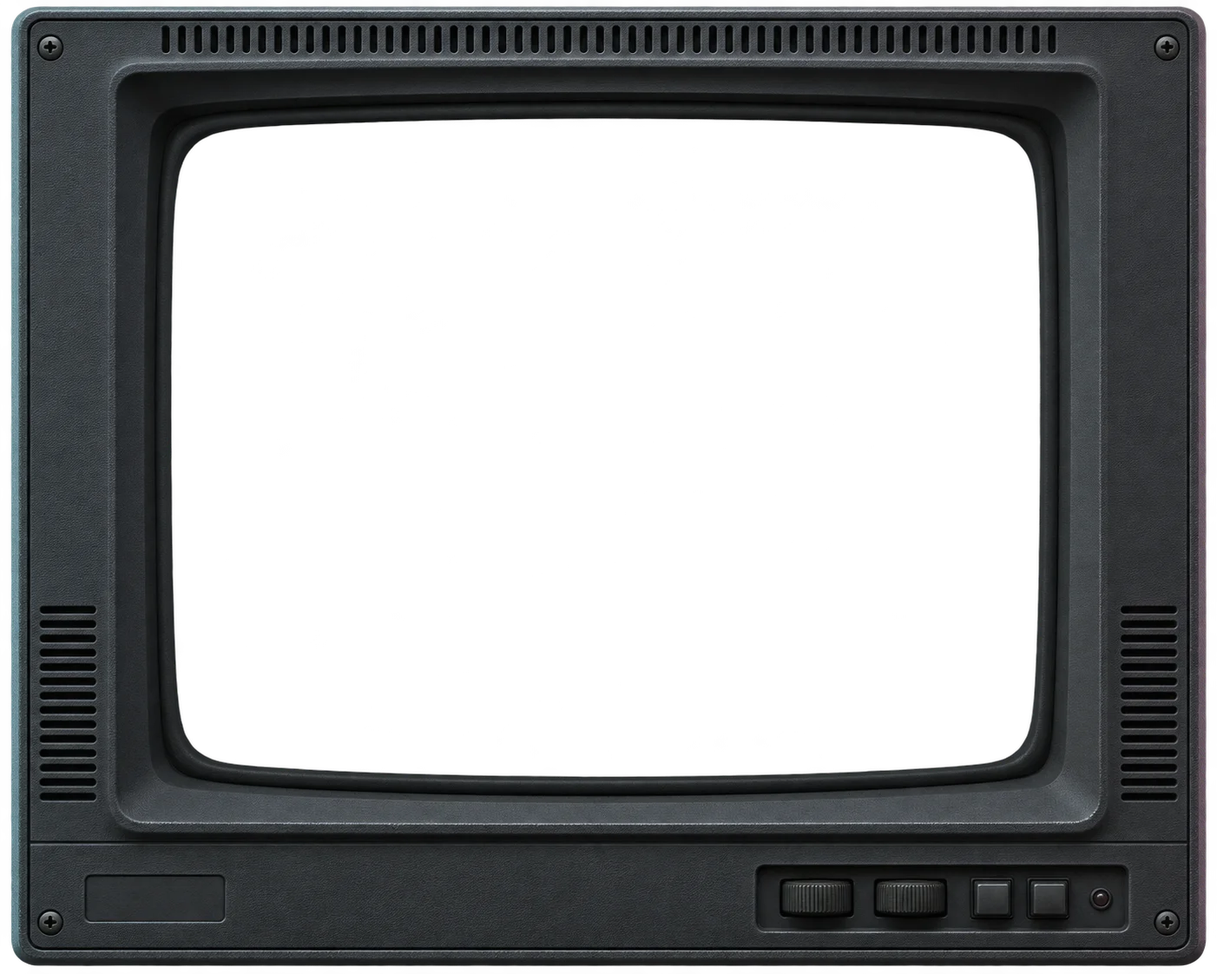
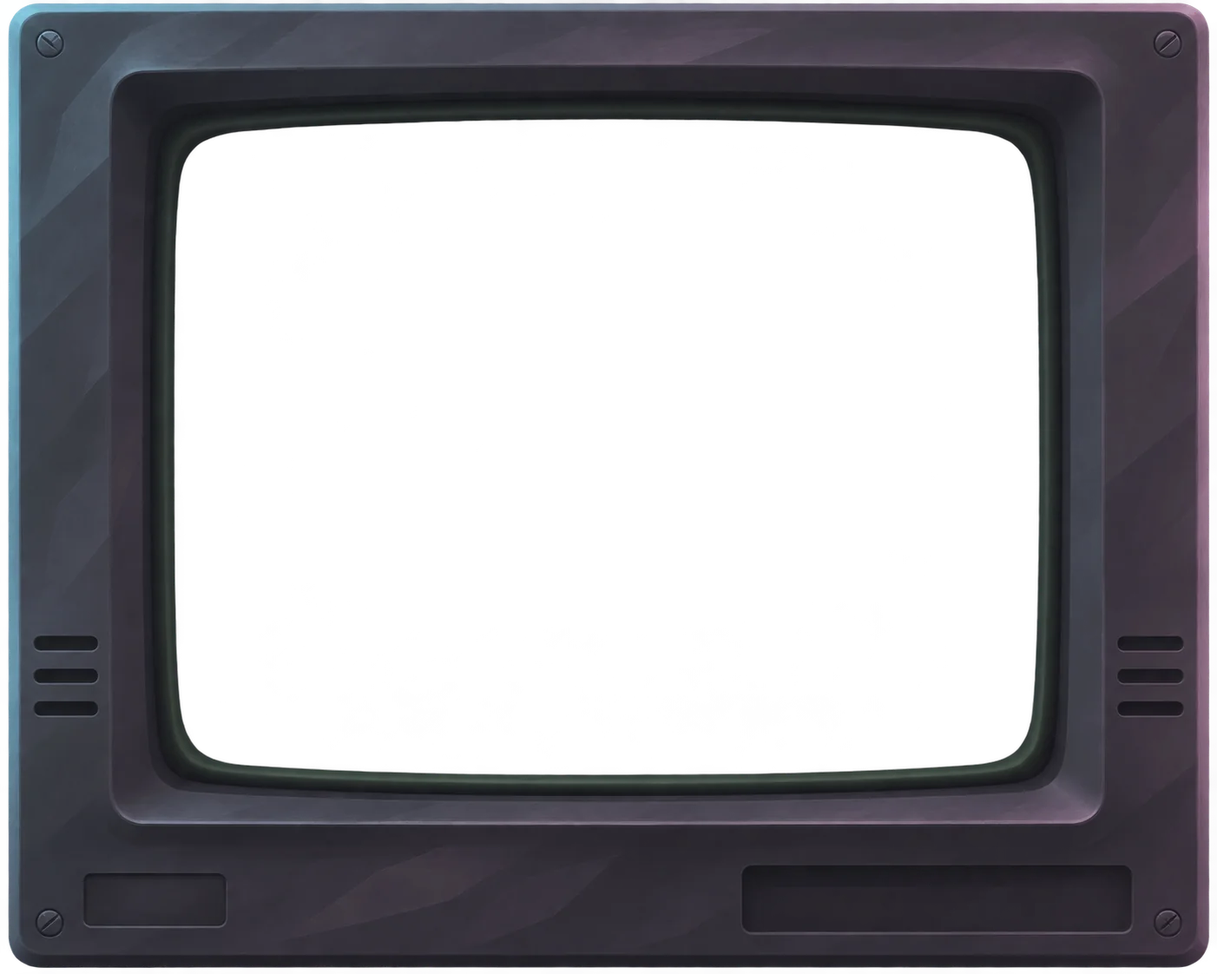
Unify CRT monitor and office with painted game art
Replace photographic room and bezel detail with broad painted forms and shared blue/mauve lighting. Match the stand, controls, and compact shell; preserve monitor geometry and runtime behavior. Update asset provenance and synchronize release keys to 20261108.1.

diff --git a/css/responsive.css b/css/responsive.css
@@ -279,7 +279,7 @@
         --monitor-stand-height: clamp(30px, 4.5vmin, 64px);
         align-items: end;
         padding-bottom: calc(var(--monitor-stand-height) + var(--monitor-gap));
-        background: #101519 url('../img/crt-room.webp?v=20261107.6') no-repeat;
+        background: #101519 url('../img/crt-room.webp?v=20261108.1') no-repeat;
         background-size: 100% 106%;
         background-position: center calc(100% + 4dvh);
     }
@@ -301,8 +301,8 @@
         border-style: solid;
         border-color: transparent;
         border-width: var(--monitor-bezel) var(--monitor-bezel) var(--monitor-chin-height);
-        border-image-source: url('../img/crt-bezel.webp?v=20261107.6');
-        border-image-slice: 137 205 228 199;
+        border-image-source: url('../img/crt-bezel.webp?v=20261108.1');
+        border-image-slice: 139 206 231 202;
         border-image-repeat: stretch;
     }
     #monitor-shell::before,
@@ -319,21 +319,21 @@
         width: 23%;
         height: var(--monitor-stand-height);
         border-radius: 0 0 35% 35%;
-        background: linear-gradient(90deg, #111719, #343c3f 25%, #252d30 65%, #101619);
-        box-shadow: inset 0 13px 12px #0009, inset 1px 0 0 #87969a3b;
+        background: linear-gradient(90deg, #191d28 18%, #33394a 18% 72%, #252938 72%);
+        box-shadow: inset 0 12px 10px #090b1380, inset 1px 0 0 #8195ab40;
     }
     #monitor-shell::after {
         top: calc(100% + var(--monitor-stand-height) - var(--monitor-bezel) * 1.65);
         width: 43%;
         height: calc(var(--monitor-bezel) * 1.65);
-        border: 1px solid #11191b;
+        border: 1px solid #151925;
         border-radius: 50% 50% 24% 24% / 55% 55% 32% 32%;
-        background: linear-gradient(175deg, #465054, #303a3d 35%, #172023 72%, #0b1113 74%);
+        background: linear-gradient(168deg, #4b5061 16%, #353b4b 16% 53%, #252a37 53% 76%, #171b25 76%);
         box-shadow:
-            inset 1px 1px 1px #a8b8be30,
-            0 3px 2px #000c,
-            0 7px 7px #0009,
-            12px 9px 20px 8px #0005;
+            inset 1px 1px 0 #92a1ba40,
+            0 3px 1px #080a12c0,
+            0 7px 7px #07091280,
+            12px 9px 20px 8px #090b1350;
     }
     #monitor-glass {
         width: 100%;
@@ -352,7 +352,7 @@
         top: 58%;
         font-size: clamp(6px, 0.55vmin, 9px);
         letter-spacing: 0.12em;
-        color: #9b9f9e;
+        color: #a2a6b5;
     }
     .monitor-hardware {
         position: absolute;
@@ -365,21 +365,19 @@
         top: 43%;
         height: 37%;
         padding-right: 20px;
-        border: 1px solid #0a0e10;
+        border: 1px solid #171923;
         border-radius: 4px;
-        background: linear-gradient(#14191b, #252b2d);
-        box-shadow: inset 0 2px 3px #000b, 0 1px 1px #8f999b40;
+        background: linear-gradient(#20212c, #30303c);
+        box-shadow: inset 0 2px 2px #0d101980, 0 1px 0 #8b819e40;
     }
     .monitor-dial {
         position: relative;
         width: clamp(9px, 1.2vmin, 17px);
         aspect-ratio: 1;
-        border: 1px solid #0a0e10;
+        border: 1px solid #151923;
         border-radius: 50%;
-        background:
-            radial-gradient(circle, #3e4648 0 40%, transparent 48%),
-            repeating-conic-gradient(#535b5e 0 8deg, #1a2022 8deg 16deg);
-        box-shadow: 0 1px 2px #000c;
+        background: linear-gradient(135deg, #667084 35%, #43495b 35% 65%, #2b3040 65%);
+        box-shadow: inset 0 1px 0 #929bb140, 0 1px 1px #0b0e18b0;
     }
     .monitor-dial::after {
         content: '';
@@ -388,15 +386,15 @@
         top: 2px;
         width: 1px;
         height: 3px;
-        background: #a6afad;
+        background: #b1b6c4;
     }
     .monitor-rocker {
         width: clamp(14px, 1.7vmin, 24px);
         height: clamp(8px, 0.9vmin, 13px);
-        border: 1px solid #090d0e;
+        border: 1px solid #151923;
         border-radius: 2px;
-        background: linear-gradient(#505759, #272d2f);
-        box-shadow: inset 0 1px 0 #7f888a50, 0 1px 2px #000b;
+        background: linear-gradient(#62677a 45%, #3a3d50 45%);
+        box-shadow: inset 0 1px 0 #9ba1b650, 0 1px 1px #0b0e18b0;
     }
     .power-led {
         position: absolute;

diff --git a/index.html b/index.html
@@ -5,13 +5,13 @@
         <meta name="viewport" content="width=device-width, initial-scale=1.0" />
         <title>Jujin Kim - Software Engineer</title>
         <meta name="description" content="Personal portfolio of Jujin Kim, Software Engineer" />
-        <link rel="icon" type="image/svg+xml" href="favicon.svg?v=20261107.6" />
-        <link rel="alternate icon" href="favicon.ico?v=20261107.6" />
-        <link rel="stylesheet" href="css/reset.css?v=20261107.6" />
-        <link rel="stylesheet" href="css/site.css?v=20261107.6" />
-        <link rel="stylesheet" href="css/animations.css?v=20261107.6" />
-        <link rel="stylesheet" href="css/modal.css?v=20261107.6" />
-        <link rel="stylesheet" href="css/responsive.css?v=20261107.6" />
+        <link rel="icon" type="image/svg+xml" href="favicon.svg?v=20261108.1" />
+        <link rel="alternate icon" href="favicon.ico?v=20261108.1" />
+        <link rel="stylesheet" href="css/reset.css?v=20261108.1" />
+        <link rel="stylesheet" href="css/site.css?v=20261108.1" />
+        <link rel="stylesheet" href="css/animations.css?v=20261108.1" />
+        <link rel="stylesheet" href="css/modal.css?v=20261108.1" />
+        <link rel="stylesheet" href="css/responsive.css?v=20261108.1" />
     </head>
     <body class="crt-effects-enabled">
         <div id="monitor-shell">
@@ -179,6 +179,6 @@
                 <span class="power-led"></span>
             </div>
         </div>
-        <script type="module" src="js/main.js?v=20261107.6"></script>
+        <script type="module" src="js/main.js?v=20261108.1"></script>
     </body>
 </html>

diff --git a/css/site.css b/css/site.css
@@ -45,7 +45,7 @@ html {
 
 @font-face {
     font-family: 'JetBrains Mono Local';
-    src: url('../fonts/JetBrainsMono-Regular.woff2?v=20261107.6') format('woff2');
+    src: url('../fonts/JetBrainsMono-Regular.woff2?v=20261108.1') format('woff2');
     font-weight: 400;
     font-style: normal;
     font-display: swap;
@@ -798,19 +798,14 @@ body {
     width: calc(100% - 12px);
     height: calc(100dvh - 12px);
     padding: 9px 9px 0;
-    background:
-        linear-gradient(110deg, #535a5de0, #30383bed 24%, #1f272af2 82%),
-        url('../img/crt-noise.png'),
-        linear-gradient(145deg, #45494b, #303537 24%, #25292b 60%, #161a1c);
-    background-blend-mode: normal, soft-light, normal;
-    border: 1px solid #111719;
+    background: linear-gradient(135deg, #485061, #363b4a 24%, #292b36 70%, #3e3444);
+    border: 1px solid #171a23;
     border-radius: 20px;
     box-shadow:
-        inset 2px 2px 2px #9aa5a54d,
-        inset 7px 7px 12px #86939826,
-        inset -4px -5px 7px #05090bcc,
-        2px 4px 0 #111719,
-        10px 18px 28px #0007;
+        inset 1px 1px 0 #8294a34d,
+        inset -3px -4px 0 #15151fb3,
+        2px 4px 0 #12151d,
+        12px 18px 26px #05070b80;
     display: flex;
     flex-direction: column;
 }
@@ -823,8 +818,8 @@ body {
     background: var(--terminal-bg);
     box-shadow:
         0 0 0 3px #070c0d,
-        0 -3px 0 5px #111719,
-        0 3px 1px 5px #66747740;
+        0 -3px 0 5px #1b202a,
+        0 3px 1px 5px #68667940;
     container: monitor / inline-size;
 }
 .monitor-face {

diff --git a/js/main.js b/js/main.js
@@ -1,11 +1,11 @@
-import { initASCIITitle } from './modules/ascii-art.js?v=20261107.6';
-import { initNavigation } from './modules/navigation.js?v=20261107.6';
-import { initAnimations } from './modules/animations.js?v=20261107.6';
-import { initTheme, setTheme } from './modules/theme.js?v=20261107.6';
-import { initContent } from './modules/content.js?v=20261107.6';
-import { initProfilePicture } from './modules/profile-ascii.js?v=20261107.6';
-import { initTerminalInput } from './modules/terminal-input.js?v=20261107.6';
-import { initCRTEffects } from './modules/crt-effects.js?v=20261107.6';
+import { initASCIITitle } from './modules/ascii-art.js?v=20261108.1';
+import { initNavigation } from './modules/navigation.js?v=20261108.1';
+import { initAnimations } from './modules/animations.js?v=20261108.1';
+import { initTheme, setTheme } from './modules/theme.js?v=20261108.1';
+import { initContent } from './modules/content.js?v=20261108.1';
+import { initProfilePicture } from './modules/profile-ascii.js?v=20261108.1';
+import { initTerminalInput } from './modules/terminal-input.js?v=20261108.1';
+import { initCRTEffects } from './modules/crt-effects.js?v=20261108.1';
 
 // Make functions globally available
 window.setTheme = setTheme;

diff --git a/js/modules/crt-effects.js b/js/modules/crt-effects.js
@@ -1,6 +1,6 @@
-import { createCurvature } from './screen-curvature.js?v=20261107.6';
-import { monitorPerformance } from './display-performance.js?v=20261107.6';
-import { cleanup as stopAnimations, setAnimationResolution } from './animations.js?v=20261107.6';
+import { createCurvature } from './screen-curvature.js?v=20261108.1';
+import { monitorPerformance } from './display-performance.js?v=20261108.1';
+import { cleanup as stopAnimations, setAnimationResolution } from './animations.js?v=20261108.1';
 
 const VISIT_MODE = 'crt-display-mode';
 const POWER_SEEN = 'crt-power-seen';

diff --git a/js/modules/terminal-input.js b/js/modules/terminal-input.js
@@ -1,5 +1,5 @@
-import { CONTACT_EMAIL } from '../constants.js?v=20261107.6';
-import { toggleMatrixRain } from './animations.js?v=20261107.6';
+import { CONTACT_EMAIL } from '../constants.js?v=20261108.1';
+import { toggleMatrixRain } from './animations.js?v=20261108.1';
 
 let currentInput = '';
 let commandHistory = [];

diff --git a/js/modules/content.js b/js/modules/content.js
@@ -1,4 +1,4 @@
-import { CONTACT_EMAIL } from '../constants.js?v=20261107.6';
+import { CONTACT_EMAIL } from '../constants.js?v=20261108.1';
 
 function calculateAge() {
     const birthDate = new Date(1992, 9, 20); // October 20, 1992 (month is 0-indexed)

diff --git a/js/modules/theme-export.js b/js/modules/theme-export.js
@@ -1,4 +1,4 @@
 // Export theme functions for global use
-import { setTheme as setThemeInternal } from './theme.js?v=20261107.6';
+import { setTheme as setThemeInternal } from './theme.js?v=20261108.1';
 
 window.setTheme = setThemeInternal;

diff --git a/js/modules/profile-ascii.js b/js/modules/profile-ascii.js
@@ -1,4 +1,4 @@
-import { PROFILE_IMAGE_URL } from '../constants.js?v=20261107.6';
+import { PROFILE_IMAGE_URL } from '../constants.js?v=20261108.1';
 
 // Profile picture loader (photo only)
 export function initProfilePicture() {

diff --git a/docs/crt-painted-room.md b/docs/crt-painted-room.md
@@ -1,0 +1,58 @@
+# Painted room and monitor — 2026-11-08
+
+Branch: `feat/crt-monitor-shell`. Release key: `20261108.1`.
+
+## Result
+
+The office and monitor now share a painted, semi-realistic adventure-game style. Broad charcoal/slate planes, selective brush texture, and muted blue/mauve edge lighting replace photographic wood grain, plastic grain, dense vents, and tiny material details. The office layout, heavy curtains, neon emblem, window/desk reflections, and empty desk foreground remain. Soft painted background edges retain the earlier gentle depth treatment without a live blur.
+
+The frame keeps its deep glass recess, substantial bevels, simplified corner fasteners, and fewer vents. CSS supplies the matching faceted stand, proportional controls, green LED, and compact/image-failure shell. The source alpha geometry uses nine-slice values of 139px top, 206px right, 231px bottom, and 202px left. No center fill is used, so the border image never paints over the content opening.
+
+Monitor dimensions, 4:3 desktop geometry, menu alignment, content, animation behavior, and input logic are unchanged. HTML and JavaScript match the preceding commit after normalizing the release key.
+
+## Assets
+
+Built-in **imagegen** edited both existing assets. The new room was then used as a style/lighting reference for the bezel. FFmpeg/libwebp encodes the selected outputs into the workspace.
+
+| Saved asset | Dimensions | Bytes | WebP quality |
+| --- | --- | ---: | ---: |
+| `img/crt-room.webp` | 1672x941 | 40,708 | 82 |
+| `img/crt-bezel.webp` | 1402x1122 | 94,420 | 85 |
+
+Source directory: `/home/jujin/.codex/generated_images/01a1b46a-a4ef-72e0-a2c4-bea7c5e08e46/`.
+
+- Room: `exec-f11e41d0-a158-4bfa-8e64-32cedf8cc0a7.png`.
+- Bezel: `exec-5e3f7f2f-b5ac-462c-bd99-393e601ea25d.png`.
+
+The bezel retains alpha: its center pixel is zero, and the sampled central opening ranges from 0 to 2/255 due to negligible edge noise. CSS omits the nine-slice center entirely. Both assets remain desktop CRT decorations; compact layouts do not load them, and Web 1.0 hides them.
+
+### Room edit prompt
+
+```text
+Use case: style-transfer.
+Edit target: the supplied dark office background. Restyle it into a HAND-PAINTED, SEMI-REALISTIC 2.5D ADVENTURE GAME ENVIRONMENT, a quiet cyberpunk hacker's workspace. The main change must be clearly visible: replace photographic surfaces with designed shapes, broad painterly light/shadow planes, softly faceted furniture, and restrained drawn edge accents. Keep believable room depth and weight. Think carefully art-directed game background illustration, neither a photograph nor a plastic toy render, neither pixel art nor flat icons.
+Preserve the exact camera, framing and object positions: heavy dark curtains and city window on the left, side shelving with books and document binders, modest office desk/chair and filing unit at the rear, doorway on the right, layered bent-tube neon emblem at the far right. Keep the entire large foreground desk EMPTY, its straight rear edge at the same height. Do not add a monitor, bezel, stand or computer anywhere; a real interactive HTML monitor will be placed on this desk.
+Use a tightly controlled low-saturation palette: charcoal/slate room, dark grey wood with a few broad brush marks rather than fine wood grain, muted blue-grey edge light from the window, soft dusty violet/cyan neon light from the right. Preserve the neon design and its reflection in the window and foreground desktop, interpreted as deliberate painted luminous shapes with soft bloom. Keep the room dim but readable, no bright warm cozy light. Reduce furniture microdetail, leaf detail, textile weave, clutter, glossy reflections and photographic noise. The silhouette, shading and edge treatment should unite everything.
+Retain gentle depth softness in the BACKGROUND as painted soft edges, while avoiding smeared heavy blur. This is a matte painted game scene with clear large forms and subtle material texture. Foreground desktop should have simplified horizontal painted reflections and enough solid form to support a separately rendered monitor. No people, text, logos, additional objects, fantasy machinery or basement pipes. Output the room alone with the original landscape composition.
+```
+
+### Bezel edit prompt
+
+```text
+Use case: style-transfer.
+Image 1 is the EDIT TARGET: transparent front-face CRT bezel. Image 2 is ONLY the STYLE AND LIGHTING REFERENCE: painted cyberpunk office. Output ONLY the edited transparent bezel, not a room or a composite.
+Restyle the CRT frame to belong to the same hand-painted semi-realistic 2.5D adventure game as image 2. Strong visible shift away from photographic plastic: broad designed charcoal/slate planes, softened faceted bevels, restrained painterly shading, selective thin edge accents, a few large clean vent slits, small simplified corner fasteners. Remove dense pebbled grain, hundreds of tiny ridges, scratches, pores and busy industrial detail. Keep substantial old CRT mass, deep dark inset gasket, and a clearly modeled thick front frame, not a flat UI rectangle and not a modern thin LCD.
+Lighting must match image 2: muted blue-grey/cyan edge highlight at left/top-left, soft dusty mauve edge reflection at right, darker underside, limited muted charcoal palette. Use two or three broad shadow values plus gentle painted transitions, not glossy studio reflections. A faint touch of muted green screen bounce at the INNER rim only. Clean large shapes; no cartoon outlines, no pixel art, no extra futuristic hardware.
+Preserve image 1's exact straight-on camera, outer silhouette, frame proportions and screen-hole placement. Keep the original canvas bounds and approximately 1402 by 1122 landscape dimensions. Preserve the wide rounded rectangular transparent screen opening, top/side band widths and taller bottom chin. Intended for nine-slice CSS: around 137px top, 205px right, 228px bottom, 199px left in a 1402x1122 image. The horizontal central stretches of each band should be visually quiet. Keep the original small blank maker plate lower left, simplify the lower-right control recess into a quiet dark recessed panel with NO drawn knobs or text; proportional controls and a green LED are rendered separately in CSS. Do not draw a stand, desk, room, screen content or glass.
+CRITICAL: retain genuine alpha transparency throughout the ENTIRE central opening and outside the silhouette. No black fill, no colored fill, no checkerboard or background painted into either transparent region. Opaque pixels only on the physical bezel. Output this single isolated asset matching the game-background style.
+```
+
+## Verification
+
+- Ten focused Chrome 157 / WebKit 27.2 cases passed: desktop Light/Dark, 1440px curved mode, portrait, 360/390/768px compact layouts, and Web 1.0. Assets return HTTP 200 under the current release key; frame ignores pointer events; compact layouts request neither decorative asset. No page exceptions or horizontal page overflow.
+- Existing `tests/crt-feedback.cjs`: 22 cases passed, covering 360px through 4K, portrait, monitor fit/4:3/stand placement, menu alignment, and continuous animation during scrolling in curved and flat modes.
+- Blocking both room and bezel images leaves readable content and a working About menu.
+- Dark/Light desktop compositions were visually reviewed. Native curved text clipping recorded in [the earlier office verification](crt-office-background.md) is outside this asset/style update and remains unresolved; these checks do not establish full curved-renderer visual correctness.
+- Runtime key consistency, JavaScript syntax, normalized HTML/JS equality, asset-size/alpha checks, and `git diff --check` passed. LAN-served HTML, both stylesheets, and both WebP files match workspace bytes.
+
+Artifacts: `/tmp/jujin-crt-results/painted-*.png`, `painted.json`, `painted-feedback.log`; focused script: `/tmp/jujin-crt-painted-check.cjs`. Tests used local Linux automation and emulated viewport sizes. No fresh FPS benchmark or physical-device test. These results describe local LAN verification; remote Git and deployment status are reported separately.

diff --git a/README.md b/README.md
@@ -10,7 +10,7 @@ Personal portfolio at [jujin.kim](https://jujin.kim), built with HTML, CSS, and 
 | API unavailable, rendering/interaction error, or context loss | Flat CRT content; monitor and effects retained |
 | Two consecutive slow interaction windows at the lowest resolution, or in flat CRT | Web 1.0 |
 
-The same DOM supplies all three modes: Home, About & Career, Projects & Skills, and Tech & Experiences. Theme choices remain Light, Dark, and System. The charcoal monitor has a detailed plastic bezel, deep glass recess, casing seams, screws, vents, adjustment dials, and a green power LED. At viewport sizes of at least 1000 x 600, its 4:3 screen fills the available space without a fixed width cap, reserving room for a low stand on the desk. Outer clearance on the limiting axis equals the bezel thickness (24–56px). The stand stays near the bottom desk surface, including tall viewports; wider or taller viewports retain the extra space required by 4:3. Smaller viewports use thin bezels and available height. Layout breakpoints use the monitor's internal width. Home stays left; the other three menu links stay grouped on the right.
+The same DOM supplies all three modes: Home, About & Career, Projects & Skills, and Tech & Experiences. Theme choices remain Light, Dark, and System. The charcoal monitor and room share a painted, semi-realistic game-art style: broad shaded bevels, a deep glass recess, simplified vents and controls, and a green power LED. At viewport sizes of at least 1000 x 600, its 4:3 screen fills the available space without a fixed width cap, reserving room for a low stand on the desk. Outer clearance on the limiting axis equals the bezel thickness (24–56px). The stand stays near the bottom desk surface, including tall viewports; wider or taller viewports retain the extra space required by 4:3. Smaller viewports use thin bezels and available height. Layout breakpoints use the monitor's internal width. Home stays left; the other three menu links stay grouped on the right.
 
 The first visit in each tab plays a silent 1000ms power sequence. Reload and navigation do not repeat it. Reduced motion or inaccessible session storage skips it. CSS finishes the reveal without depending on a cleanup callback. JavaScript or module-network failure leaves static introductory content, contact links, and four section anchors visible.
 
@@ -56,7 +56,7 @@ Open `http://127.0.0.1:8000/`. Diagnostic routes:
 
 `window.crtDiagnostics` exposes mode, reason, recent frame windows, texture counters, and resolution. Only preview URLs expose `forceFlat()`, `forceWeb1()`, `submitSample()`, and `toScreen()` for verification. Forced preview modes override the saved visit choice; a normal visit respects it.
 
-Browser verification scripts in `tests/` use an external Playwright installation; they do not add a build pipeline or runtime package. See [initial implementation verification](docs/crt-verification.md), [layout/motion follow-up](docs/crt-feedback-verification.md), [room/monitor refinement](docs/crt-room-refinement.md), [room depth/neon update](docs/crt-room-depth.md), [material/color refinement](docs/crt-material-refinement.md), and [current office background](docs/crt-office-background.md) for commands, measured results, and limits.
+Browser verification scripts in `tests/` use an external Playwright installation; they do not add a build pipeline or runtime package. See [initial implementation verification](docs/crt-verification.md), [layout/motion follow-up](docs/crt-feedback-verification.md), [room/monitor refinement](docs/crt-room-refinement.md), [room depth/neon update](docs/crt-room-depth.md), [material/color refinement](docs/crt-material-refinement.md), [office background](docs/crt-office-background.md), and [current painted room/monitor](docs/crt-painted-room.md) for commands, measured results, and limits.
 
 ```sh
 for file in js/main.js js/modules/*.js; do node --check "$file" || exit; done
@@ -65,11 +65,11 @@ git diff --check
 
 ## Assets and release cache
 
-`img/crt-room.webp` is a generated semi-realistic night office with a rear worktable, office chair, and document storage, graded toward lower saturation and neutral wood/charcoal tones. Layered cyan/violet neon tubes, local bloom, and window/desk reflections provide selective color. Gentle defocus is baked into the background; the foreground monitor and content remain sharp without a live blur filter. The room image is 37,140 bytes. Landscape framing keeps both side bands visible; tall viewports focus on the doorway and neon side. The current prompt and provenance are in [office background notes](docs/crt-office-background.md).
+`img/crt-room.webp` is a generated painted night office with a rear worktable, office chair, document storage, and heavy window curtains. Simplified charcoal/slate forms and soft edges replace photographic surface detail; cyan/violet neon, window light, and painted desk reflections provide selective color. The room image is 40,708 bytes. Landscape framing keeps both side bands visible; tall viewports focus on the doorway and neon side. No live blur filter is used.
 
-`img/crt-bezel.webp` is a 181,560-byte generated transparent frame used as a CSS nine-slice border. Its screen opening and outside are transparent; it never replaces the content DOM. Separate decorative dials retain their proportions as the frame grows. Both assets are desktop CRT decorations, hidden in compact layouts and Web 1.0. CSS provides the shell if the frame image fails. The frame prompt and provenance are in [material refinement notes](docs/crt-material-refinement.md#asset-provenance).
+`img/crt-bezel.webp` is a 94,420-byte generated transparent frame used as a CSS nine-slice border. Broad painted bevels, fewer vents, and muted blue/mauve edge lighting match the room. Its screen opening and outside are transparent; it never replaces the content DOM. Separate decorative dials retain their proportions as the frame grows; the CSS stand and controls use the same restrained shading. Both assets are desktop CRT decorations, hidden in compact layouts and Web 1.0. CSS provides a matching shell if the frame image fails. Prompts and provenance are in [painted room/monitor notes](docs/crt-painted-room.md).
 
-Local entrypoints, module imports, fonts, favicons, and generated assets use `v=20261107.6`. Bump the release key together for runtime releases.
+Local entrypoints, module imports, fonts, favicons, and generated assets use `v=20261108.1`. Bump the release key together for runtime releases.
 
 ## Author
 

diff --git a/AGENTS.md b/AGENTS.md
@@ -83,7 +83,7 @@ jujin_kim_web/
 
 - **Visual scope**: Preserve the terminal layout, ASCII title, green palette, four tabs, and monitor frame. Refine requested effects inside this shell unless the user explicitly requests a structural redesign.
 
-- **Release caching**: Keep local entrypoints, module imports (including dynamic imports), font URLs, and favicon links on the same `v=20261107.6` release key. Bump the key together for runtime releases.
+- **Release caching**: Keep local entrypoints, module imports (including dynamic imports), font URLs, and favicon links on the same `v=20261108.1` release key. Bump the key together for runtime releases.
 
 - **Vanilla ES6 Modules**: Stick strictly to ES6 modules and template literals. Avoid introducing frameworks, compiler steps, or external build pipelines.
 - **ASCII & Text**: Use ASCII characters unless a file already mixes in Unicode (such as emoji in content templates).
